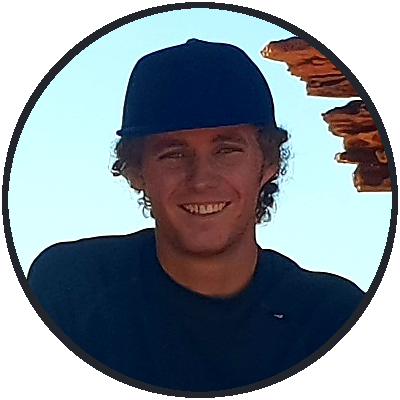
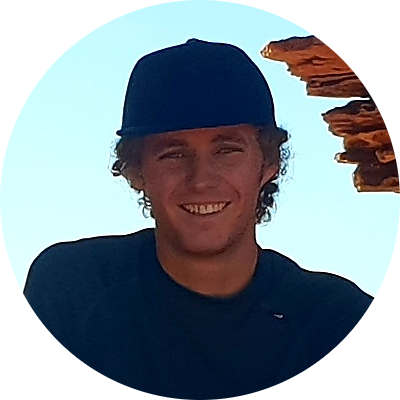
Replaced in image border for a css one, better fonts.

Changed region(s): [[0.0, 0.0, 1.0, 1.0]]

diff --git a/styles/layout.css b/styles/layout.css
@@ -28,9 +28,16 @@ html, body {
   box-shadow:0px 0px 32px #000;
 }
 
+#meImage
+{
+  border: 2px solid #22252b;
+  border-radius: 75px;
+  background-color: rgba(34, 37, 43, 1);
+}
+
 #headerLabel
 {
-  font-family: arial;
+  font-family: Helvetica, Arial, sans-serif;
   font-style: bold;
   font-size: 32px;
   color: #22252b;
@@ -38,7 +45,7 @@ html, body {
 
 #descriptionLabel
 {
-  font-family: arial;
+  font-family: Helvetica, Arial, sans-serif;
   font-style: normal;
   font-size: 16px;
   color: #22252b;
@@ -47,7 +54,7 @@ html, body {
 #cvButton
 {
   color: #22252b;
-  font-family: arial;
+  font-family: Helvetica, Arial, sans-serif;
   font-style: normal;
   font-size: 16px;
   padding: 8px;

diff --git a/index.html b/index.html
@@ -17,7 +17,7 @@
     <canvas id="activeCanvas" style="display:block; position:absolute; width:100vw; height:100vh;"></canvas>
     <div style="height:100%; width:100%; display:flex; flex-direction:column; position:absolute; align-items:center; justify-content:center;">
       <div id="labelsContainer">
-        <img src="images/me.png" alt="" style="width:150px;height:150px;">
+        <img id="meImage" src="images/me.png" alt="" style="width:150px;height:150px;">
 
         <p id="headerLabel" >Hi, I'm Josh Newland</p>
         <p id="descriptionLabel" >I'm a software programmer from the UK, mostly focused on games development</p>
